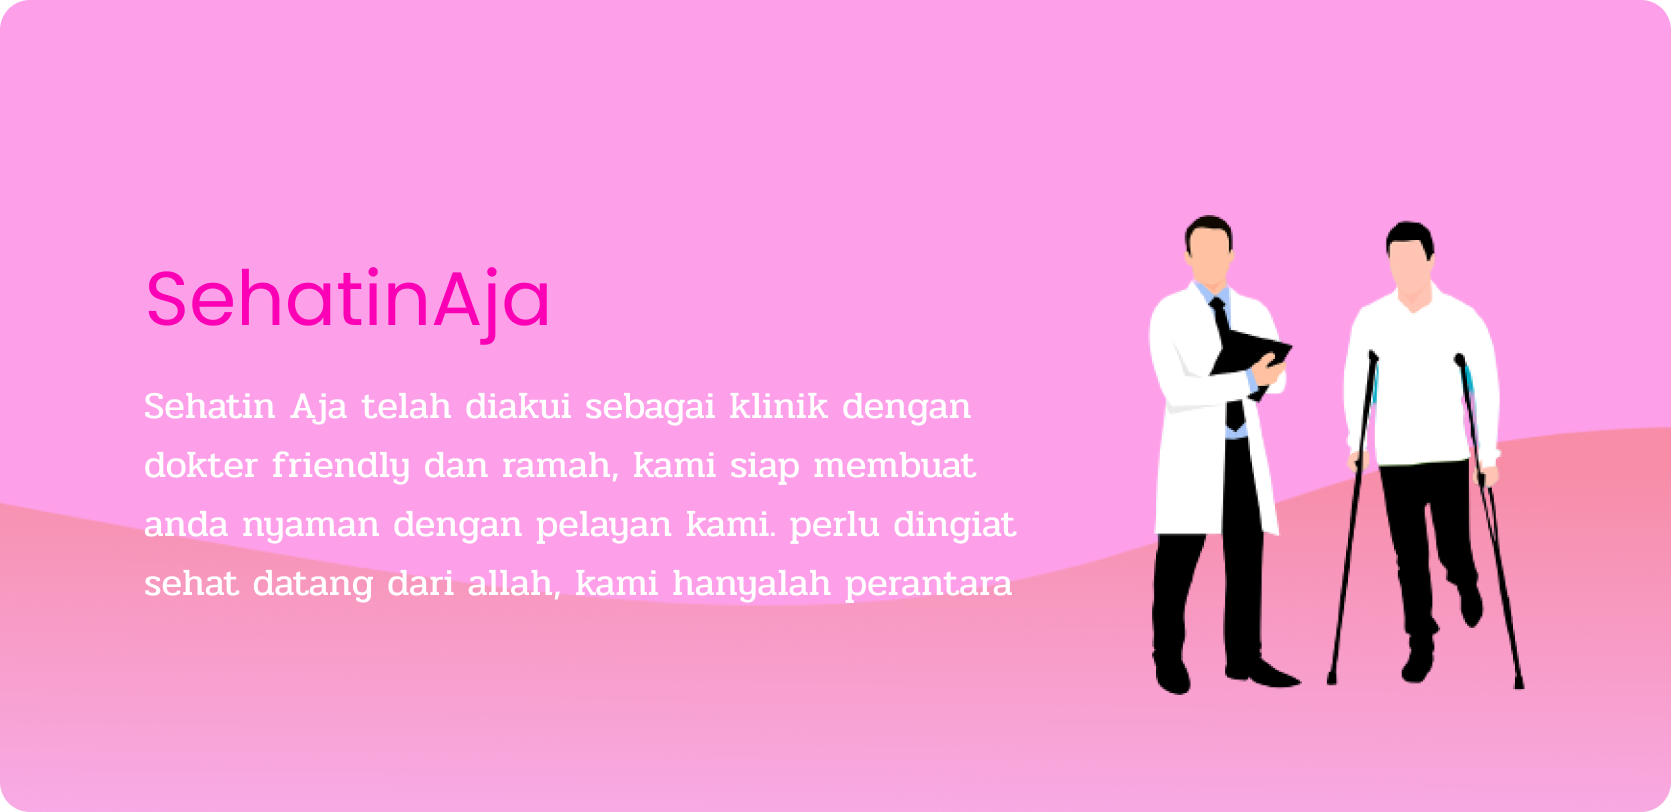
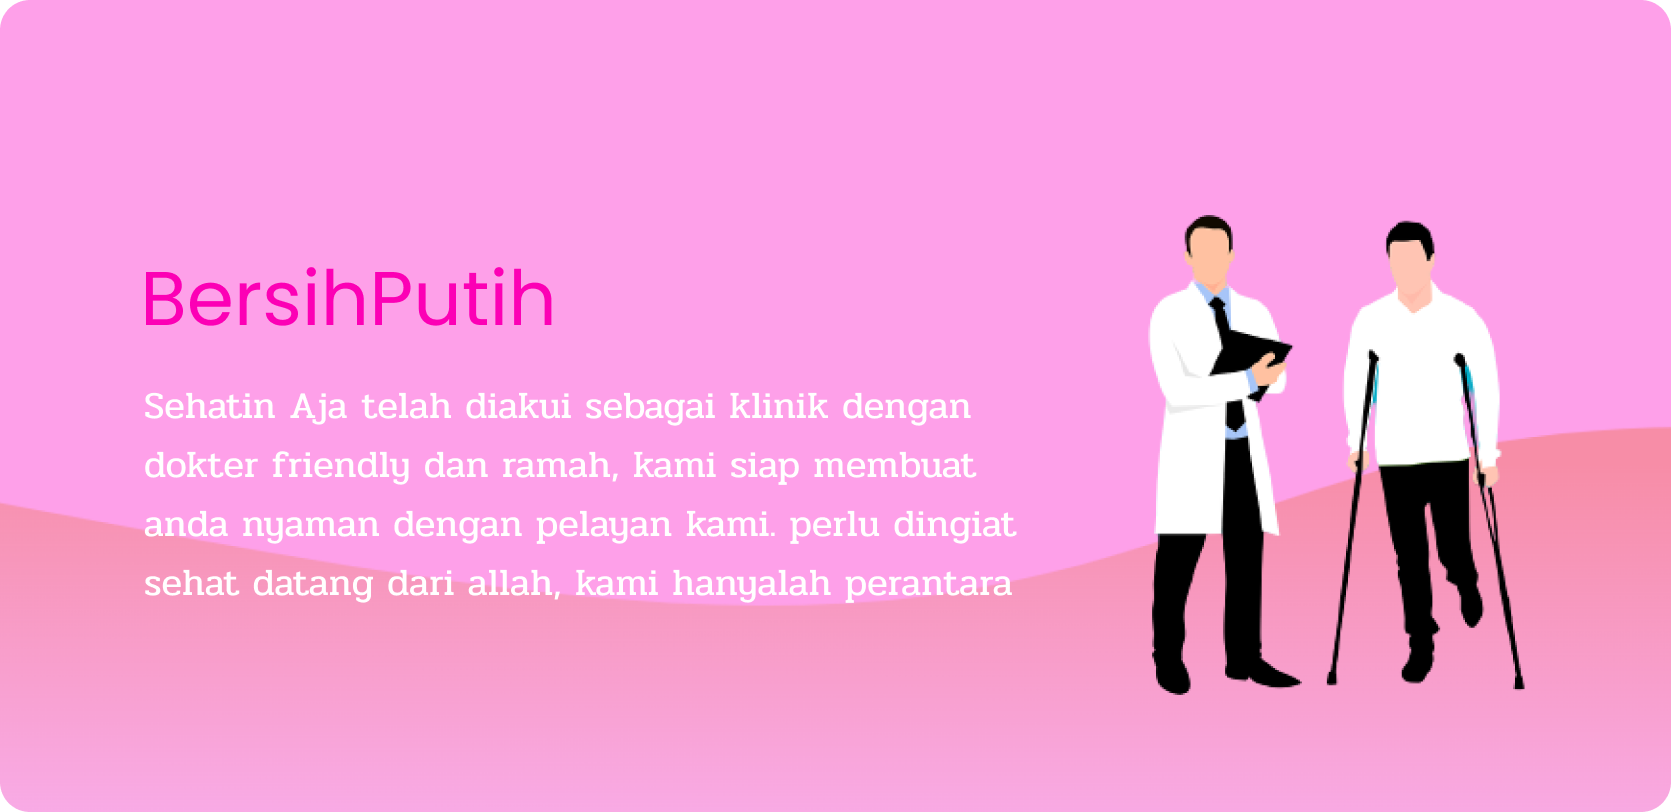
klinik

Changed region(s): [[0.0622, 0.3079, 0.3423, 0.431]]

diff --git a/klinik.html b/klinik.html
@@ -13,8 +13,8 @@
     <nav class="bg-pink-500 border-gray-200 px-2 sm:px-4 py-2.5 dark:bg-gray-900 mb-10 t-0">
       <div class="container flex flex-wrap items-center justify-between mx-auto">
         <a href="https://flowbite.com/" class="flex items-center">
-          <i class="bx bx-injection mr-4 text-3xl text-white"></i>
-          <span class="self-center text-xl font-semibold whitespace-nowrap dark:text-white text-white">Sehatin aja</span>
+          <i class="bx bx-heart-circle text-2xl text-white mr-2"></i>
+          <span class="self-center text-xl font-semibold whitespace-nowrap dark:text-white text-white">BersihPutih</span>
         </a>
         <button
           data-collapse-toggle="navbar-default"
@@ -107,9 +107,9 @@
       <div class="flex flex-col lg:flex-row justify-center mt-10 mx-auto">
         <div class="max-w-sm p-6 bg-white border border-gray-200 rounded-lg shadow-md dark:bg-gray-800 dark:border-gray-700 mr-8 lg:mb-0 mb-8">
           <a href="#">
-            <h5 class="text-center mb-2 text-2xl font-bold tracking-tight text-gray-900 dark:text-white">Vaksinasi</h5>
+            <h5 class="text-center mb-2 text-2xl font-bold tracking-tight text-gray-900 dark:text-white">Cabut Gigi</h5>
           </a>
-          <img src="vaksin.jpg" class="rounded h-[100px] w-[100px]" alt="" />
+          <img src="dentist-gfed3a186e_1920.jpg" class="rounded h-[100px] w-[100px]" alt="" />
           <h6 class="text-lg font-semibold mb-4 mt-2">RP.100 rb</h6>
           <button
             type="button"
@@ -121,9 +121,9 @@
 
         <div class="max-w-sm p-6 bg-white border border-gray-200 rounded-lg shadow-md dark:bg-gray-800 dark:border-gray-700 mr-8 lg:mb-0 mb-8">
           <a href="#">
-            <h5 class="text-center mb-2 text-2xl font-bold tracking-tight text-gray-900 dark:text-white">Vaksinasi</h5>
+            <h5 class="text-center mb-2 text-2xl font-bold tracking-tight text-gray-900 dark:text-white">Cabut Gigi</h5>
           </a>
-          <img src="vaksin.jpg" class="rounded h-[100px] w-[100px]" alt="" />
+          <img src="dentist-gfed3a186e_1920.jpg" class="rounded h-[100px] w-[100px]" alt="" />
           <h6 class="text-lg font-semibold mb-4 mt-2">RP.100 rb</h6>
           <button
             type="button"
@@ -133,11 +133,11 @@
           </button>
         </div>
 
-        <div class="max-w-sm p-6 bg-white border border-gray-200 rounded-lg shadow-md dark:bg-gray-800 dark:border-gray-700 mr-8">
+        <div class="max-w-sm p-6 bg-white border border-gray-200 rounded-lg shadow-md dark:bg-gray-800 dark:border-gray-700 mr-8 lg:mb-0 mb-8">
           <a href="#">
-            <h5 class="text-center mb-2 text-2xl font-bold tracking-tight text-gray-900 dark:text-white">Vaksinasi</h5>
+            <h5 class="text-center mb-2 text-2xl font-bold tracking-tight text-gray-900 dark:text-white">Cabut Gigi</h5>
           </a>
-          <img src="vaksin.jpg" class="rounded h-[100px] w-[100px]" alt="" />
+          <img src="dentist-gfed3a186e_1920.jpg" class="rounded h-[100px] w-[100px]" alt="" />
           <h6 class="text-lg font-semibold mb-4 mt-2">RP.100 rb</h6>
           <button
             type="button"
@@ -154,7 +154,7 @@
     <div class="h-[700px] bg-pink-300 mt-10 py-2">
       <div class="flex justify-center">
         <i class="bx bxs-group text-center text-4xl mt-6 mr-2"></i>
-        <p class="text-3xl font-bold text-center mt-6">Why Sehatin aja</p>
+        <p class="text-3xl font-bold text-center mt-6">Why BersihPutih</p>
       </div>
 
       <video class="mx-auto mt-6 w-72 lg:w-96" controls>
@@ -188,19 +188,19 @@
             <th scope="row" class="py-4 px-6 font-medium text-gray-900 whitespace-nowrap dark:text-white">Dokter luqman</th>
             <td class="py-4 px-6">senin - Jumat</td>
             <td class="py-4 px-6">09.00 - 12.00</td>
-            <td class="py-4 px-6">Spesialis mata</td>
+            <td class="py-4 px-6">Spesialis Gigi</td>
           </tr>
           <tr class="bg-white border-b dark:bg-gray-800 dark:border-gray-700">
             <th scope="row" class="py-4 px-6 font-medium text-gray-900 whitespace-nowrap dark:text-white">Dokter Rara</th>
             <td class="py-4 px-6">selasa - kamis</td>
             <td class="py-4 px-6">07.00</td>
-            <td class="py-4 px-6">Spesialis jantung</td>
+            <td class="py-4 px-6">Spesialis Gigi</td>
           </tr>
           <tr class="bg-white dark:bg-gray-800">
             <th scope="row" class="py-4 px-6 font-medium text-gray-900 whitespace-nowrap dark:text-white">Dokter suratdi</th>
             <td class="py-4 px-6">senin - sabtu</td>
             <td class="py-4 px-6">07.00 - 04.00</td>
-            <td class="py-4 px-6">dokter umum</td>
+            <td class="py-4 px-6">Spesialis Gigi</td>
           </tr>
         </tbody>
       </table>
@@ -253,8 +253,8 @@
         <div class="flex flex-col">
           <div class="flex flex-col md:flex-row md:justify-between pl-8 mt-8">
             <div class="md:ml-[200px] mt-4">
-              <i class="bx bx-injection text-2xl text-white"></i>
-              <span class="self-center text-2xl font-semibold whitespace-nowrap dark:text-white text-white">Sehatin aja</span>
+              <i class="bx bx-heart-circle text-2xl text-white"></i>
+              <span class="self-center text-2xl font-semibold whitespace-nowrap dark:text-white text-white">BersihPutih</span>
             </div>
             <div class="mt-6">
               <ul>
